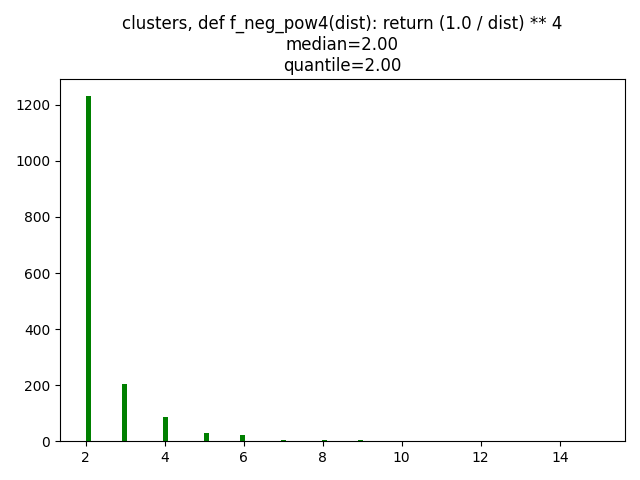
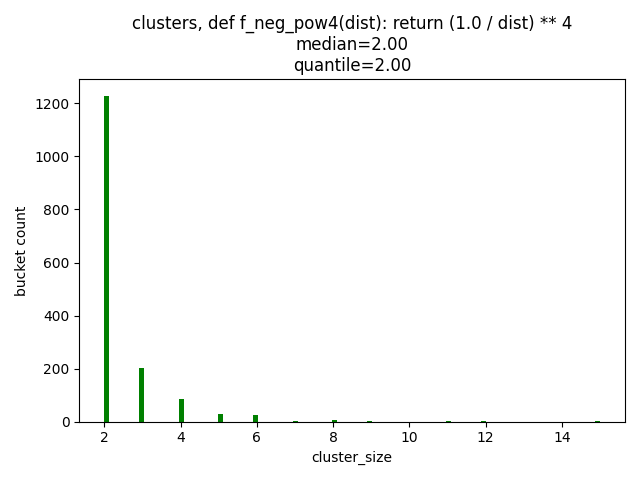
added axes

diff --git a/DonorAnalyzer.py b/DonorAnalyzer.py
@@ -185,13 +185,13 @@ def hist_patients(f_id):
         code = rep.get_proximity_code(f_id)
 
         dens_path = f'distribution/densities/{f_id}.png'
-        plot_distribution(denss, dens_path, code, 'density')
+        plot_distribution(denss, dens_path, code, 'density', 'density')
 
         cluster_path = f'distribution/clusters/{f_id}.png'
-        plot_distribution(clusters, cluster_path, code, 'clusters', 'green')
+        plot_distribution(clusters, cluster_path, code, 'clusters', 'cluster_size', 'green')
 
         periphery_path = f'distribution/peripheries/{f_id}.png'
-        plot_distribution(peripheries,periphery_path, code, 'peripheries', 'orange')
+        plot_distribution(peripheries,periphery_path, code, 'peripheries', 'periphery_size', 'orange')
 
     t2 = time.time()
     print(f'plots took {t2 - t1} sec')

diff --git a/DenseUtils.py b/DenseUtils.py
@@ -33,7 +33,7 @@ def all_oe(c):
     return pd.concat(all_df, ignore_index=True)
 
 
-def plot_distribution(arr, store_path, function_code, label, color='null'):
+def plot_distribution(arr, store_path, function_code, label, xlabel, color='null'):
     rcParams.update({'figure.autolayout': True})
     if color != 'null':
         plt.hist(arr, bins=100, color=color)
@@ -45,6 +45,8 @@ def plot_distribution(arr, store_path, function_code, label, color='null'):
               'median=%0.2f\n' % dens_med +
               'quantile=%0.2f' % dens_quantile)
     create_path_if_not_exist(store_path)
+    plt.xlabel(xlabel)
+    plt.ylabel('bucket count')
     plt.savefig(store_path)
     plt.show()
 
